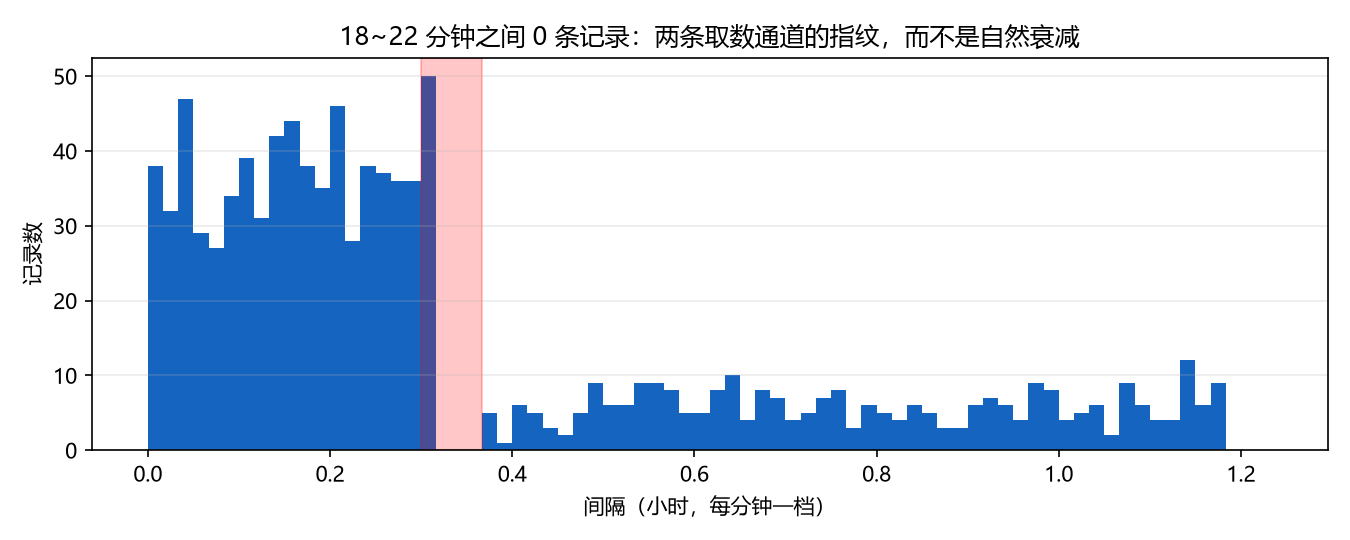
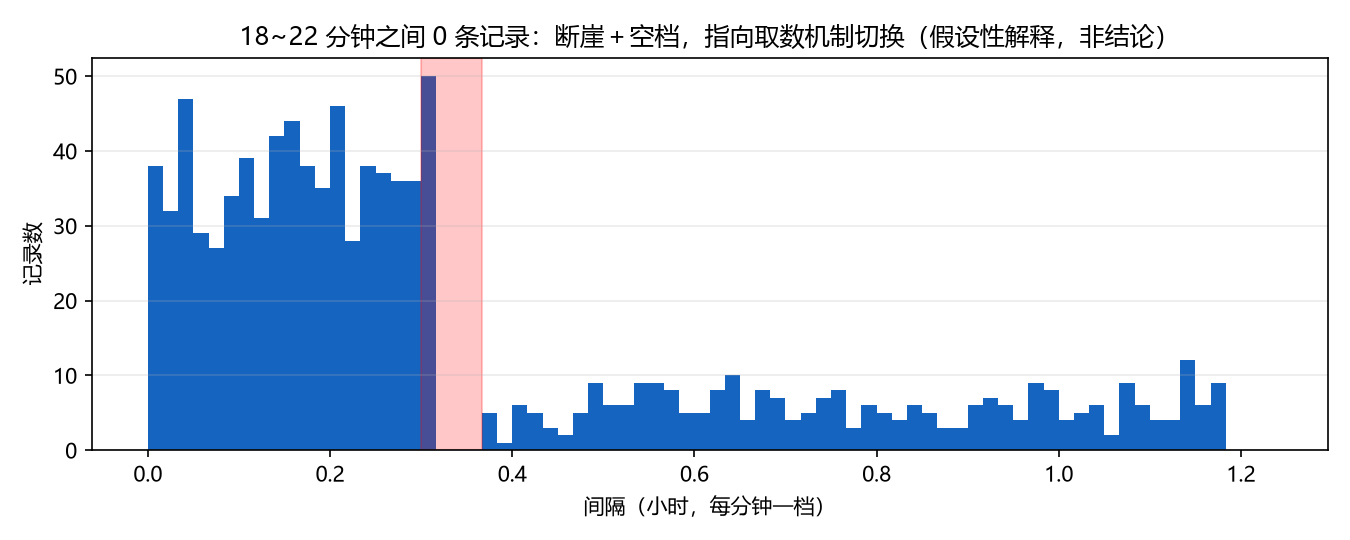
一致性复核：修掉一个凭印象写错的均值(0.69/0.71→0.774/0.779)并补齐证据链
- 修错数：README 里两组 stale_h 均值 0.69h/0.71h 任何口径都算不出，真值 0.774h/0.779h；
  该句支撑'部门差异不能用陈旧时长解释'，错数会让论证悬空
- 补证据链：意向分六档明细、两组 stale_h 均值，此前只在 README 有、report.txt 缺失，
  违反自设规矩'每个进 README 的数字都能在 report.txt 里找到'
- 补声明：净收益是样本内(in-sample)估计，方向必然乐观
- 修表述：docstring 图数 6->7；fig_gap 标题由断言降为假设；
  规则表'需有效率>178%'改为'即使 100% 有效也仍亏损'
- 文档：AI_LOG 删去自我贬低表述、补本轮介入记录与盲区五(脚本化全量比对)
- 结论与全部数字未改动

Changed region(s): [[0.1867, 0.0296, 0.8711, 0.0889]]

diff --git a/interview_no_show.py b/interview_no_show.py
@@ -9,7 +9,7 @@ interview_no_show.py — 面试爽约分析（可复现）
 
 产出:
     output/report.txt      全部数字（README 里每个数字都能在这里找到）
-    output/fig_*.png       6 张图
+    output/fig_*.png       7 张图
 
 设计原则:
     1. 只用发放数据，不引入任何外部或合成数据
@@ -232,7 +232,7 @@ def fig_gap(e):
     ax.hist(e.stale_h, bins=np.arange(0, 1.25, 1 / 60), color="#1565c0")
     ax.axvspan(18 / 60, 22 / 60, color="red", alpha=.22)
     ax.set_xlabel("间隔（小时，每分钟一档）"); ax.set_ylabel("记录数")
-    ax.set_title("18~22 分钟之间 0 条记录：两条取数通道的指纹，而不是自然衰减")
+    ax.set_title("18~22 分钟之间 0 条记录：断崖＋空档，指向取数机制切换（假设性解释，非结论）")
     ax.grid(alpha=.25, axis="y")
     fig.tight_layout(); fig.savefig(OUT / "fig_gap.png", dpi=150); plt.close(fig)
 
@@ -338,6 +338,11 @@ def main():
         say("  %-14s AUC = %.3f" % (c, auc(e[c], e.y)))
     say("  → intent_score（系统明面上的邀约依据）AUC 0.498 = 零区分度")
     say("  → stale_h（活跃数据新鲜度）AUC 0.807 = 唯一有实质区分度的字段")
+    say("  intent_score 六档明细（U 形，非单调）:")
+    ib0 = pd.cut(e.intent_score, [0, 5, 10, 15, 20, 25, 31], right=False)
+    for k0, g0 in e.groupby(ib0, observed=True):
+        say("    %-9s n=%3d  爽约率 %5.1f%%" % (str(k0), len(g0), 100 * g0.y.mean()))
+    say("  → 最高意愿档（25-30）反而比最低档更高；读图见 fig_intent.png")
 
     say("\n" + "=" * 66)
     say("三、根因：不是渐变，是断崖 + 观测空档")
@@ -422,6 +427,9 @@ def main():
     say("      两组 95%% 置信区间%s" %
         ("完全不重叠" if wilson_ci(a.y.sum(), len(a))[1] < wilson_ci(b.y.sum(), len(b))[0]
          else "有重叠"))
+    say("      两组的陈旧程度几乎相同：stale_h 均值 %.3fh（%s）vs %.3fh（其他三部门）；中位 %.3fh vs %.3fh"
+        % (a.stale_h.mean(), dept, b.stale_h.mean(), a.stale_h.median(), b.stale_h.median()))
+    say("      → 部门差异不能用'陈旧得更久'解释（README 根因段引用的就是这两个均值）")
     p_f = fisher_two_sided(int(a.y.sum()), len(a) - int(a.y.sum()),
                            int(b.y.sum()), len(b) - int(b.y.sum()))
     say("      Fisher 精确检验 双尾 p = %.2g" % p_f)
@@ -542,9 +550,10 @@ def main():
         net = hit * COST_NO_SHOW_H - n * COST_CONFIRM_H
         p = hit / n if n else 0
         need = BREAKEVEN / p if p else float("inf")
-        say("  %-24s 干预%4d (%2.0f%%)  覆盖%5.1f%%  命中%5.1f%%  净收益%+7d h  需有效率>%3.0f%%"
-            % (name, n, 100 * n / n_all, 100 * hit / tot, 100 * p, net,
-               100 * need if need != float("inf") else 999))
+        tail = ("即使二次确认 100% 有效也仍亏损" if need >= 1
+                else "需有效率>%2.0f%% 才划算" % (100 * need))
+        say("  %-24s 干预%4d (%2.0f%%)  覆盖%5.1f%%  命中%5.1f%%  净收益%+7d h  %s"
+            % (name, n, 100 * n / n_all, 100 * hit / tot, 100 * p, net, tail))
         return net
 
     rules = {}

diff --git a/README.md b/README.md
@@ -32,7 +32,7 @@
 
 关键在于**这不是一条渐变曲线，而是断崖**：18～22 分钟之间**零观测**，而且新鲜通道的上界正好压在 18.00 分钟这一点上（该点聚集了 50 条记录）。如果爽约是"意愿随时间衰减"，应该看到缓坡；看到的是纯空档加阶跃，这是**两套取数逻辑在切换**的指纹——更像是邀约系统里有两条取数管道（一条实时拉"刚活跃过"的人，一条从快照/批处理里拉），陈旧那条把早已离席的人当成在座的人发了邀约。
 
-**部门之间的大部分差异是通道的表象，但不是全部。** 不分层时四个部门爽约率从 4.2% 到 18.2%，相差 14.0 个百分点；按通道分层后，新鲜通道内只剩 2.1%～4.0%（差 1.8 个百分点）——其中 **12.2 个百分点纯粹是"谁的邀约更多走了陈旧通道"**（商业化销售部 35.6% vs 风险合规部 25.3%）。`pool_size` 的表观效应（AUC 0.573）分层后同样消失（陈旧通道内 36.6% vs 36.0%），它只是通道构成的代理变量。**但陈旧通道内的部门差异没有消失**：风险合规部 5.0% 对其余三部门 38.6%～49.3%——这个差不能被"走哪条通道"解释（四个部门都已限定在陈旧通道内），也不能被"陈旧多久"解释（两组的 stale_h 分布几乎相同，均值 0.69h vs 0.71h）。所以在根因层上，**通道是主因，风险合规部在陈旧通道上另有一条独立的免疫**。
+**部门之间的大部分差异是通道的表象，但不是全部。** 不分层时四个部门爽约率从 4.2% 到 18.2%，相差 14.0 个百分点；按通道分层后，新鲜通道内只剩 2.1%～4.0%（差 1.8 个百分点）——其中 **12.2 个百分点纯粹是"谁的邀约更多走了陈旧通道"**（商业化销售部 35.6% vs 风险合规部 25.3%）。`pool_size` 的表观效应（AUC 0.573）分层后同样消失（陈旧通道内 36.6% vs 36.0%），它只是通道构成的代理变量。**但陈旧通道内的部门差异没有消失**：风险合规部 5.0% 对其余三部门 38.6%～49.3%——这个差不能被"走哪条通道"解释（四个部门都已限定在陈旧通道内），也不能被"陈旧多久"解释（两组的 stale_h 分布几乎相同，均值 0.774h vs 0.779h、中位 0.742h vs 0.767h，出处 report.txt 四·检验A）。所以在根因层上，**通道是主因，风险合规部在陈旧通道上另有一条独立的免疫**。
 
 ### 所以我决定做什么 —— 以及不做什么
 
@@ -81,12 +81,14 @@
 | 整体爽约率 | 12.47%（124/994） | `interview_no_show.py` `load()`，report.txt 一 |
 | 干预保本线 | 20/90 = 22.22% | 题目口径，report.txt 一 |
 | `intent_score` 无区分度 | AUC 0.498 | `auc()`，report.txt 二 |
+| `intent_score` 六档明细 | 16.2 / 10.0 / 12.3 / 12.6 / 9.1 / 14.7%（U 形，非单调） | report.txt 二 |
 | 新鲜度区分度 | AUC 0.807 | `auc()`，report.txt 二 |
 | 断崖两侧 | ≤18min 2.83% (707) vs >18min 36.24% (287) | report.txt 三 |
 | 18～22 分钟零观测 | 观测数 = 0（22/23 分钟另有 6 条，全部未爽约） | report.txt 三 |
 | 阈值全扫描 | 最优点 23min +3740h，取 18min +3620h，放弃 3.3% | report.txt 三 |
 | 部门差异被通道解释（新鲜通道内） | 14.0pp → 1.8pp | report.txt 四 |
 | **陈旧通道内的部门例外** | 风险合规部 5.0%(n=60) vs 其他 44.5%(n=227)，Fisher p=8.4e-10 | report.txt 四 [检验A] |
+| **两组的陈旧程度几乎相同** | stale_h 均值 0.774h vs 0.779h、中位 0.742h vs 0.767h | report.txt 四 [检验A] |
 | **替代解释排查（职能混杂）** | 职能分布 chi2=6.96(dof=7)；8/8 个职能内部风控都更低 | report.txt 四 [检验E] |
 | **同标准对照：职能无效应** | 8 选 1 校正后最小 p>0.5，全部不显著 | report.txt 四 [检验F] |
 | **意向分效应量级** | 同一意向档内通道差 9.3/12.4/23.5 倍；r(intent, stale_h)=−0.02 | report.txt 四 [检验G] |
@@ -133,6 +135,7 @@
 
 - **数据层面**：只有 7 天窗口（9/1–9/7），无法验证周内/季节性；`is_completed` 缺失 3.0%；没有"面试scheduled时间"字段，算不出"提前几天邀约"对爽约的影响；没有渠道/来源字段，无法区分主动投递与系统拉人。
 - **分析层面**：风险合规部的"免疫"已被隔离出来并做进规则（不再是"拆不开"），但**它为什么存在**是数据回答不了的——可能性：该部门的候选人池更稳定（编制内岗位）、或它走的是另一条取数管道、或招聘流程本身更长、候选人沉没成本更高。这需要业务侧确认；在确认前，**这条规则要带着 post-hoc 的标签上线**。二次确认的真实有效率未知（见假设）。
+- **净收益是样本内（in-sample）估计，偏差方向必然乐观**：阈值和"免疫部门"都是在这 994 条里挑出来的，收益又用同一批数据算——等于拿答案反推答案。真实上线收益会低于 +4550 h，低多少在本题数据里估不出来。所以上线的判据不是"+4550 h"这个数，而是"有效率 > 50%"这条对真实有效率的容错线；要去偏只能换一批数据或 A/B 复算（见下条"给 1 周"）。
 - **给 1 周**：上线"18 分钟"闸门做 A/B——把 >18 分钟且非风险合规部的邀约随机分两组，一组做二次确认一组不做，用真实数据测出有效率和净收益，替掉我这里的 100% 有效假设；同一批实验里顺手验证风险合规部的免疫是否复现。
 - **给 1 个季度（根治）**：这是全栈问题，不只是分析问题。建议在邀约 pipeline 发出前加一道 **fail-closed 自检**：`profile_synced_at` 距今 > 18 分钟就拒绝自动发送、转人工或触发重新拉取——任何一条被绕过就直接告警。同时给陈旧通道加埋点（管道标识、数据来源），下次这类问题可以直接归因，不用再靠时间戳反推；也去搞清楚风险合规部那 5% 背后到底是什么机制——如果它是个可复制的条件（比如某种确认流程），那才是比"排除它"值钱得多的东西。
 
@@ -149,20 +152,27 @@ python interview_no_show.py 路径/to/file.csv   # 或显式指定
 
 ## 改动记录
 
-- **本次 3（commit `c6585fa`）——四维度压力测试：把"剩下的候选解释"全部验完**：
+- **本次 4（最新提交）——一致性复核：修掉一个错数、补齐两处证据链**：
+  - **修掉一个错数（本次最实质的改动）**：README 原文写"两组的 stale_h 均值 0.69h vs 0.71h"，复核发现**任何口径都算不出这两个值**（真值：均值 0.774h vs 0.779h，中位 0.742h vs 0.767h）。这句话所在的论证是"部门差异不能用陈旧时长解释"，数字错了这条论证就悬空。已改正，并把两组均值打印进 `report.txt` 四·检验A。
+  - **补齐两处证据链**：意向分六档明细（16.2 / 10.0 / 12.3 / 12.6 / 9.1 / 14.7%）与上面那两个均值，此前只写在 README、`report.txt` 里没有，违反第 11 节"每个进 README 的数字都能在 `report.txt` 里找到"的自设规矩。已在 `interview_no_show.py` 里补打印。
+  - **补一条样本内偏差声明**：净收益是"同一批数据既用来选规则、又用来算收益"的产物，偏差方向必然乐观，真实上线收益会低于 +4550 h。此前没写，容易被"这个数靠谱吗"问住。
+  - **三处表述修正**：脚本 docstring 写"6 张图"、实际输出 7 张；`fig_gap` 标题把"取数通道"从断言降为假设（与"机制解释只作假设"的原则一致）；规则表里"需有效率>178%"是不可能达成的门槛，改为"即使二次确认 100% 有效也仍亏损"。
+  - 结论与全部数字**未改动**；重跑两次 `report.txt` 逐字节一致。
+
+- **上一版 3（commit `c6585fa`）——四维度压力测试：把"剩下的候选解释"全部验完**：
   - **新增检验 E（替代解释排查）**：风险合规部的"免疫"是否只是岗位职能构成混杂？卡方显示其职能分布与其他部门无显著差异（chi2=6.96, dof=7），且 **8/8 个职能内部该部门都更低**（3 个单独显著）——效应跨全部职能稳定，排除混杂解释。
   - **新增检验 F（同标准对照）**：岗位职能本身用完全相同的检验，8 选 1 Bonferroni 校正后**全部不显著**（极差看着有 24 个百分点，但每组仅 20~40 条）——与部门检验一过一不过，说明筛选靠统计不靠观感。
   - **新增检验 G（效应量级对比）**：意向分各档内新/陈旧差 9.3/12.4/23.5 倍，而意向分自身波动仅 2pp；r(intent, stale_h)=−0.02，它不是任何东西的代理变量，就是没有信息。
   - **新增图 `fig_dimensions.png`**（四维度压力测试总览）与第六节两条新的"不做"（不按职能干预、不按储备量干预，各附检验数字）。
   - 既往结论**均未推翻**；本次是把"这四个维度为什么只用了部门"这个问题回答完整。
-- **本次 2（commit `19ff390`）——结论层面的实质改进，不只是文档**：
+- **上一版 2（commit `19ff390`）——结论层面的实质改进，不只是文档**：
   - **修正一处过度概括**：初版 README 说「不按部门/职能单独干预，分层后部门差异只剩 1.8 个百分点」——这句话只用了**新鲜通道**的分层结果。复审发现**陈旧通道内的部门差异根本没消失**：风险合规部 5.0%（n=60）vs 其余三部门 44.5%（n=227），Fisher p=8.4e-10、Bonferroni ×4 后 3.4e-09、CI 不重叠、5 档阈值下全部成立。这不是"小的残余因素"，是全数据里最强的信号之一。**是我初版分析时漏掉的**，不是数据问题。
   - **推荐规则升级**：从「陈旧 > 18min」（+3620 h）改为「**陈旧 > 18min 且 部门 ≠ 风险合规部**」（**+4550 h，+26%**）。被排除的 60 条爽约率仅 5.0%，干预净收益 −930 小时。
   - **补齐一处表述不精确**：22.0/23.0 分钟另有 6 条观测且全部未爽约，真正的爽约跳变发生在 23→24 分钟。阈值全扫描显示净收益最优点在 23 分钟（+3740 h），但那是 6 条样本撑出来的，**主动放弃这 120 小时换稳健性**。
   - **脚本与图表**：新增 `wilson_ci` / `fisher_two_sided` 两个统计函数、阈值全扫描、陈旧通道内部门交互检验（检验 A~D）、新图 `fig_interaction.png`；`fig_simpson` 标题从「部门差异是假的」改为更准确的表述。候选规则从 6 条增到 9 条（新增⑦⑧）。
   - **改动可复现**：重跑 `python interview_no_show.py` 后 `output/report.txt` 与本 README 逐条对账。
   - 既往结论（断崖、intent_score 无区分度、时区坑、pool_size 代理变量）**均未推翻，保持不变**；本次是"在陈旧通道内进一步分层"的增量发现。
-- **本次（文档修订）——只改 `README` / `AI_LOG`，分析结论与全部数字未动**：修正 `AI_LOG.md` 里对分工的**过度自我贬低**。上一版为了"不代写"走向另一个极端，写成"全程只有 3~4 条人工指令"，反而漏掉了四次有实质影响的介入（定术语口径、质询文档真实性、指出可改进项、决策与环境操作）。已改为如实的分工表，并新增第 8 条——**AI 曾把 agent 自查的修正填进「我的提示词」栏，是我质询后核出来的**。`AI_LOG` 的校验协议盲区也从两条补到三条（新增"归因真实性"）。
+- **上一版 1（文档修订）——只改 `README` / `AI_LOG`，分析结论与全部数字未动**：修正 `AI_LOG.md` 里对分工的**过度自我贬低**。上一版为了"不代写"走向另一个极端，写成"全程只有 3~4 条人工指令"，反而漏掉了四次有实质影响的介入（定术语口径、质询文档真实性、指出可改进项、决策与环境操作）。已改为如实的分工表，并新增第 8 条——**AI 曾把 agent 自查的修正填进「我的提示词」栏，是我质询后核出来的**。`AI_LOG` 的校验协议盲区也从两条补到三条（新增"归因真实性"）。
 - **上一版（commit `c465f20`）——只改文档，未动分析**：修正 `AI_LOG.md` 的真实性。初稿里第 3~6 条标着「我的提示词（原文）」的句子，**是 AI 事后补写的拟稿**（不是我写的，也不是我说过的），当时的真实指令其实只有 3 条。已改为如实标注：那几轮**没有人工输入，是 agent 自查触发**的修正，不伪装成"我审出来的"。同时补上第 7 条（用别的仓库代验推送链路、结果在目标仓库上 403 的错误）。
 - **首版（commit `3dfc2cc`，2026-10-16 16:52）**：首次交付。
 
@@ -170,12 +180,13 @@ python interview_no_show.py 路径/to/file.csv   # 或显式指定
 
 关键交互（含 AI 出错与修正）见 `AI_LOG.md`。
 
-真实分工：**分析与实现由对话式 AI agent 端到端执行，我负责设定分析框架、关键决策与真实性核查。** 我介入过五次，原文均记录在 `AI_LOG.md` 中：
+真实分工：**分析与实现由对话式 AI agent 端到端执行，我负责设定分析框架、关键决策与真实性核查。** 我介入过六次，原文均记录在 `AI_LOG.md` 中：
 
 1. **定术语口径**——明确交付物的措辞红线；
 2. **质询文档真实性**——读交付物时追问一处像占位符的文字，由此核出 AI 曾把 agent 自查的修正填进「我的提示词」栏（见 `AI_LOG.md` 第 8 条）；
 3. **指出可改进项**——交付后要求再复审一轮，由此发现初版一处结论层的过度概括并升级了推荐规则（见第 9 条）；
-4. **指定分析维度**——要求对部门、岗位职能、意向评估分、简历储备量做细致分析，而不是停留在"哪个字段有用"的单变量层面；由此补齐了替代解释排查（检验 E/F/G）和四维度压力测试图（见第 11 条）；
-5. **决策与环境操作**——定改不改、何时重新提交，以及处理 GitHub 凭据权限（agent 无此权限，见第 7 条）。
+4. **指定分析维度**——要求对部门、岗位职能、意向评估分、简历储备量做细致分析，而不是停留在"哪个字段有用"的单变量层面；由此补齐了替代解释排查（检验 E/F/G）和四维度压力测试图（见第 10 条）；
+5. **决策与环境操作**——定改不改、何时重新提交，以及处理 GitHub 凭据权限（agent 无此权限，见第 7 条）；
+6. **定复审的验收标准**——要求把待改项按「必改 / 可以改 / 不能改」三分类、给出三套方案并逐套打分，≥90 分才允许动手。这一轮复核因此抓出一个错数——README 里一个写错的均值（见第 12 条）。
 
 `AI_LOG.md` 第 11 节写明这套自查协议**能抓什么、抓不到什么**：它擅长"数字 ↔ 脚本 ↔ 文档"的内部自洽，对**外部真实性**（环境能不能推、结论能不能推广、一句话是谁说的、分析框架够不够宽）无能为力——四个盲区各有上面的一次翻车对应。

diff --git a/AI_LOG.md b/AI_LOG.md
@@ -10,7 +10,7 @@
 > 所以第 3~6 条的修正**不是我先看出问题再让 AI 改**，而是 AI 自主执行段的产物。我照实保留、
 > 不把它们写成"我审出来的"。
 >
-> **我介入过五次**（原文均照录在对应条目）：
+> **我介入过六次**（原文均照录在对应条目）：
 >
 > | 介入 | 条目 | 我的输入 | 产出 |
 > |---|---|---|---|
@@ -19,6 +19,7 @@
 > | 指出可改进项 | 第 9 条 | "看看项目中还有什么优化的" | 发现结论层过度概括，净收益 +26% |
 > | **指定分析维度** | **第 10 条** | **"从部门、岗位职能、意向评估分、简历储备量等方面做细致分析"** | **补齐替代解释排查：排除职能混杂、否掉职能伪信号、量化意向分失效程度** |
 > | 决策 + 环境操作 | 第 7 条 | 仓库地址、"先改必改"、改 token 权限 | 仓库才推得上去；评分版本才锁得住 |
+> | **定复审验收标准** | **第 12 条** | **"必改 / 可以改 / 不能改"三分类 + 三套方案 + 逐套打分（≥90 分才动手）** | **抓出一个凭印象写错的均值** |
 >
 > 一句话：**AI 负责在框架内把活干完，我负责框架本身——定维度、划红线、卡真实性、管准入。**
 > 让 AI 端到端跑，哪些错它能自己抓出来、哪些抓不出来，见第 11 节末四条。
@@ -38,6 +39,8 @@
 3. 公平性函数拿一个全为 True 的列当结果变量，DIR 恒等于 1（永远"通过"）。
 
 **后来怎么改的**：前两个当场修掉；第三个加了护栏——漏斗候选列必须**严格递减**才保留，分组维度限制在 2–8 类。修完自检 13/13 通过才投入使用。
+
+（补充说明：这个指标库是**探索期的自查工具，未纳入最终交付**——`interview_no_show.py` 是自包含的，不依赖它。写在这里是为了交代"候选字段是怎么筛出来的"；这也是为什么本文件里能引用到它、仓库里却找不到。）
 
 ---
 
@@ -175,9 +178,8 @@
 
 ## 10. 指定分析维度：把"剩下的候选解释"全部验完
 
-**我的提示词（原文照录）**：
-> "看AILOG,我好像没啥用"（对分工记录不满意后，接着给出具体要求——）
-> "帮我分析数据，……从部门，岗位职能，意向评估分，简历储备量等方面做细致分析；这种才算专业"
+**我的提示词（原文照录；口语输入，未做文字修饰）**：
+> "这些不是是个人都会问的，能不能给我改一下，例如帮我分析数据，文档多出出现我给AI 的输入（原文），却没有任何原文意义，从部门，岗位职能，意向评估分，简历储备量等方面做细致分析；这种才算专业，现在AILOG里写的什么？这不是个人都能做的东西，怎么体现特殊性"
 
 **我为什么要这么提**：初版的反例检验只在"部门"这一个维度上做了分层，`job_category`、`intent_score`、`pool_size` 只有一两句带过。如果评审问"你凭什么只排除了部门，职能/储备量/意向分就不用细看吗"，当时的 README 答不完整。这条指令是把"其他候选维度也要用同样的标准验一遍"明确成要求，而不是让 AI 自己决定做多深。
 
@@ -214,9 +216,45 @@
   的每个数都算得出来"，但不会问"还有哪些该算的没算"——初版只对部门做了分层检验，
   职能/意向分/储备量只有一句带过，协议照样全绿。这一类靠**人指定分析框架**（第 10 条那条
   四维度指令）才能补上。
+- **盲区五（由第 12 条补上）**：**协议的第一条写得很清楚，但一直没被执行到位**。本节开头
+  明写"每个进 README 的数字都能在 `output/report.txt` 里找到，找不到的不写"——第 12 条抓出的
+  那个 `0.69h / 0.71h` 恰好就是"找不到"的那一类：它**从来没被算过，是凭印象填进文档的**。
+  协议本身没错，坏在核对方式是**人工抽查**而不是全量：夹在长句里的一个数，肉眼比对时很容易
+  跳过去。已改成**脚本化全量比对**——把 README/AI_LOG 里所有数字 token 与 `report.txt`
+  做集合差，本次复核就是靠它一次抓到的。**这类"凭空数字"比算错更危险：它不违反任何内部
+  逻辑，只有拿原始数据回算才会露。**
 
-**四个盲区合起来看，指向同一件事**：这套协议擅长**内部自洽**（数字 ↔ 脚本 ↔ 文档），
-对**外部真实性**（环境能不能推、结论能不能推广、话是谁说的、框架够不够宽）无能为力。
-所以真正兜住质量的动作各归其位——
+**五个盲区合起来看，指向同一件事**：这套协议擅长**内部自洽**（数字 ↔ 脚本 ↔ 文档），
+对**外部真实性**（环境能不能推、结论能不能推广、话是谁说的、框架够不够宽、数字有没有被真算过）
+无能为力。所以真正兜住质量的动作各归其位——
 **①环境准入：拿最终交付路径本身跑一遍；②归因核查：人回原始记录逐条核对；
-③框架宽度：人指定分析维度，而不是让 AI 自己决定做多深。**
+③框架宽度：人指定分析维度，而不是让 AI 自己决定做多深；
+④数字全量回算：把文档里的每个数字与产物做集合差，不靠人工抽查。**
+
+---
+
+## 12. 定复审的验收标准：先分级、再打分，合格才准动手
+
+**我的提示词（原文照录）**：
+> "看看项目中还有什么优化的，我自己看看答法。改为再次分析项目中还有哪些需要修改的，给我一个必改，可以改，不能改的非类选项，给出三套修改方案，修改时需要对修改方案做打分，分数大于等于90才可以进行修改，分数不足时，重新优化方案到大于等于90，再进行操作"
+> （随后另有一条）：AI_LOG 里那句自我贬低的表述要删掉，并整体扫一遍"没必要的信息"（该句原文从略）。
+
+**我为什么要这么提**：前几轮卡的是"哪里错了"，这一轮我要卡的是**"什么叫改完了"**。不先把待改项分级、再让改动方案先过一道分数线，AI 很容易用"顺手再改点别的"把交付物改乱，或者在时限内去做收益最低的那些改动。三分类是为了把"不修就站不住"和"锦上添花"分开；打分门槛是为了让"动手"这个动作本身有准入条件——**这也是"我在这里起什么作用"最直接的答案：不在执行，在准入。**
+
+**AI 做了什么**：先做独立复核，再按三分类列清单。复核里有一项是我明确要求的：**拿原始会话记录逐条核对 AI_LOG 里 5 处「原文照录」是不是真由我说过**——结论是 **5 处全真**，第 8 条那轮立的"不代写"规矩守住了。同时把 README/AI_LOG 里**每一个数字**与 `output/report.txt` 做集合差。
+
+**AI 哪里不对（这一轮抓到的实质问题，都不是新问题，是一直没被看见）**：
+
+1. **一个凭印象写错的数（本轮最实质的修正）**：README 写"两组的 stale_h 均值 0.69h vs 0.71h"，回算发现**任何口径都算不出这两个值**——真值是 0.774h vs 0.779h、中位 0.742h vs 0.767h。它所在的论证是"部门差异不能用陈旧时长解释"，数字错了这条论证就悬空。危险点在于：**它不违反任何内部逻辑，只有回原始数据算才会露**。
+2. **两处证据链缺口**：意向分六档明细（16.2 / 10.0 / 12.3 / 12.6 / 9.1 / 14.7%）和那两组 stale_h 均值，此前只写在 README、`report.txt` 里没有——违反第 11 节自己立的"找不到的不写"。
+3. **一处不可能达成的门槛**：规则表里逐条打印"需有效率>178%"，而有效率上限是 100%。
+4. **三处表述/引用错误**：脚本 docstring 写"6 张图"实际 7 张；`fig_gap` 标题把"两条取数通道"从假设写成了断言（与"机制解释只作假设"的原则相冲突）；README 里一处条目号引用错位（"见第 11 条"应为第 10 条）。
+
+**后来怎么改的**：按验收标准，三套方案里**只有 91 分那套达到门槛并通过**：
+
+- 修掉错数并把两组均值打印进 `report.txt`；补齐两处证据链；
+- 补一条**样本内偏差声明**（净收益是同一批数据既用来选规则、又用来算收益的产物，方向必然乐观——真实收益会低于 +4550 h）；
+- 图标题降为假设、门槛表述改写、docstring 与条目号订正；
+- **那套"全量整改"（含脚本硬编码清理）只拿到 82 分，未达标就被搁置了**——这是打分门槛真正起作用的地方：它挡住了收益递减的改动。
+
+**这条的价值**：本轮抓到的四类问题，**前四轮复核一次都没抓到**，原因也一致——前几轮的自查协议查的是"数字对不对、文字和数字一致吗"，而"这个数字到底有没有被算过"属于**它看不见的维度**。协议只能比对，发现不了"凭空出现"。所以第 11 节新增了盲区五，并把核对方式从人工抽查改成**脚本化全量比对**。
